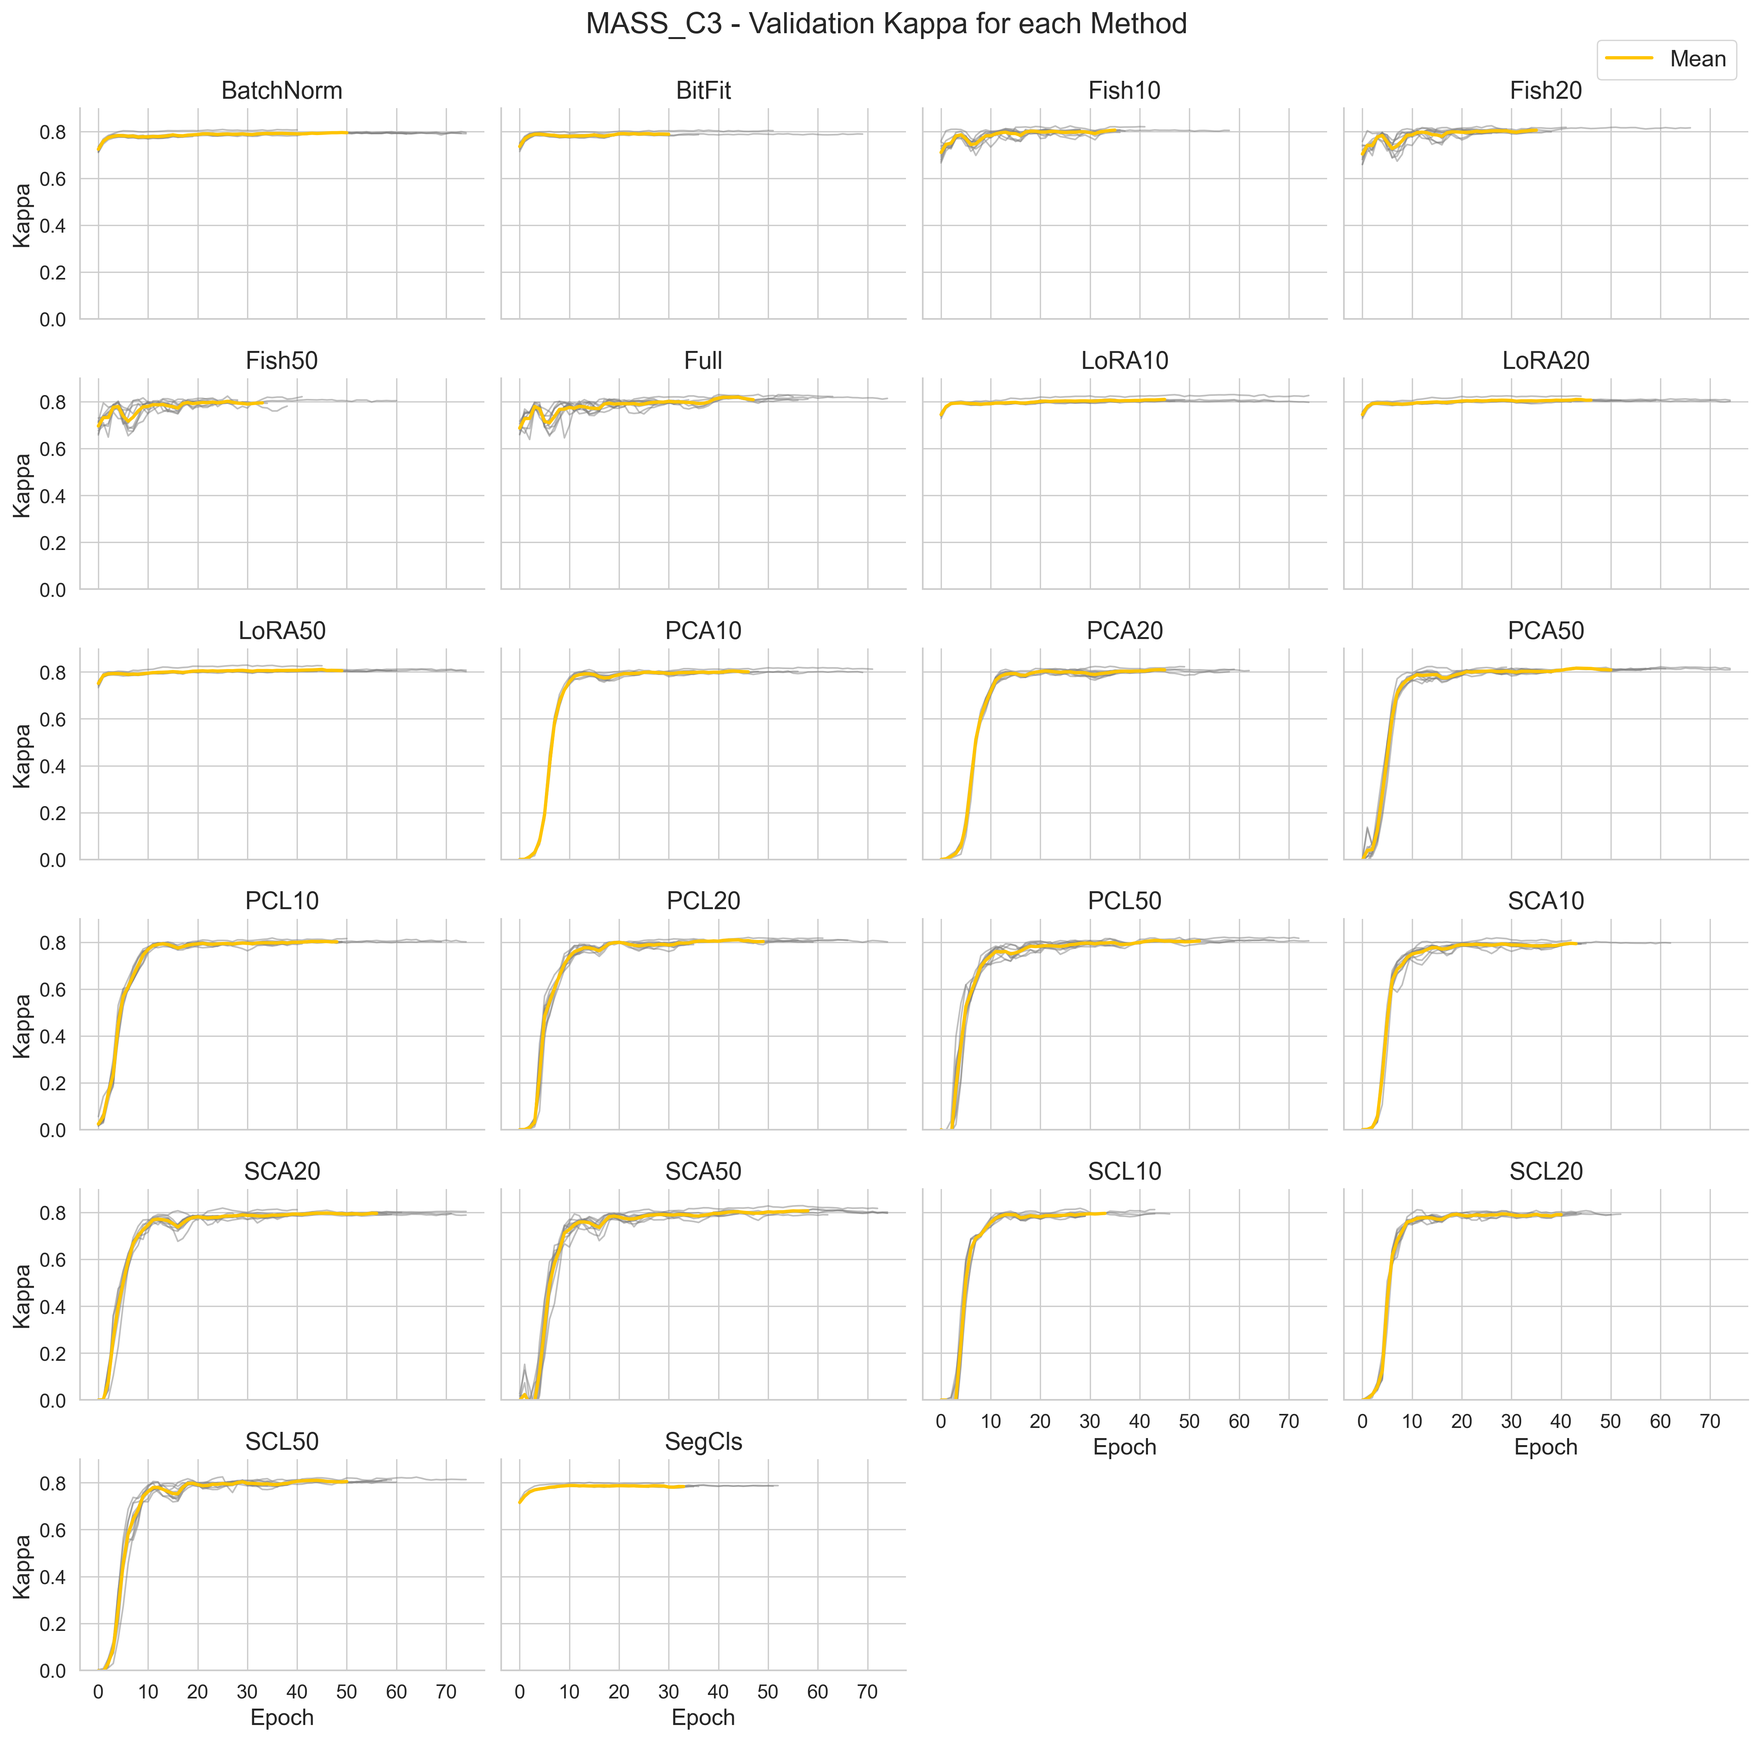
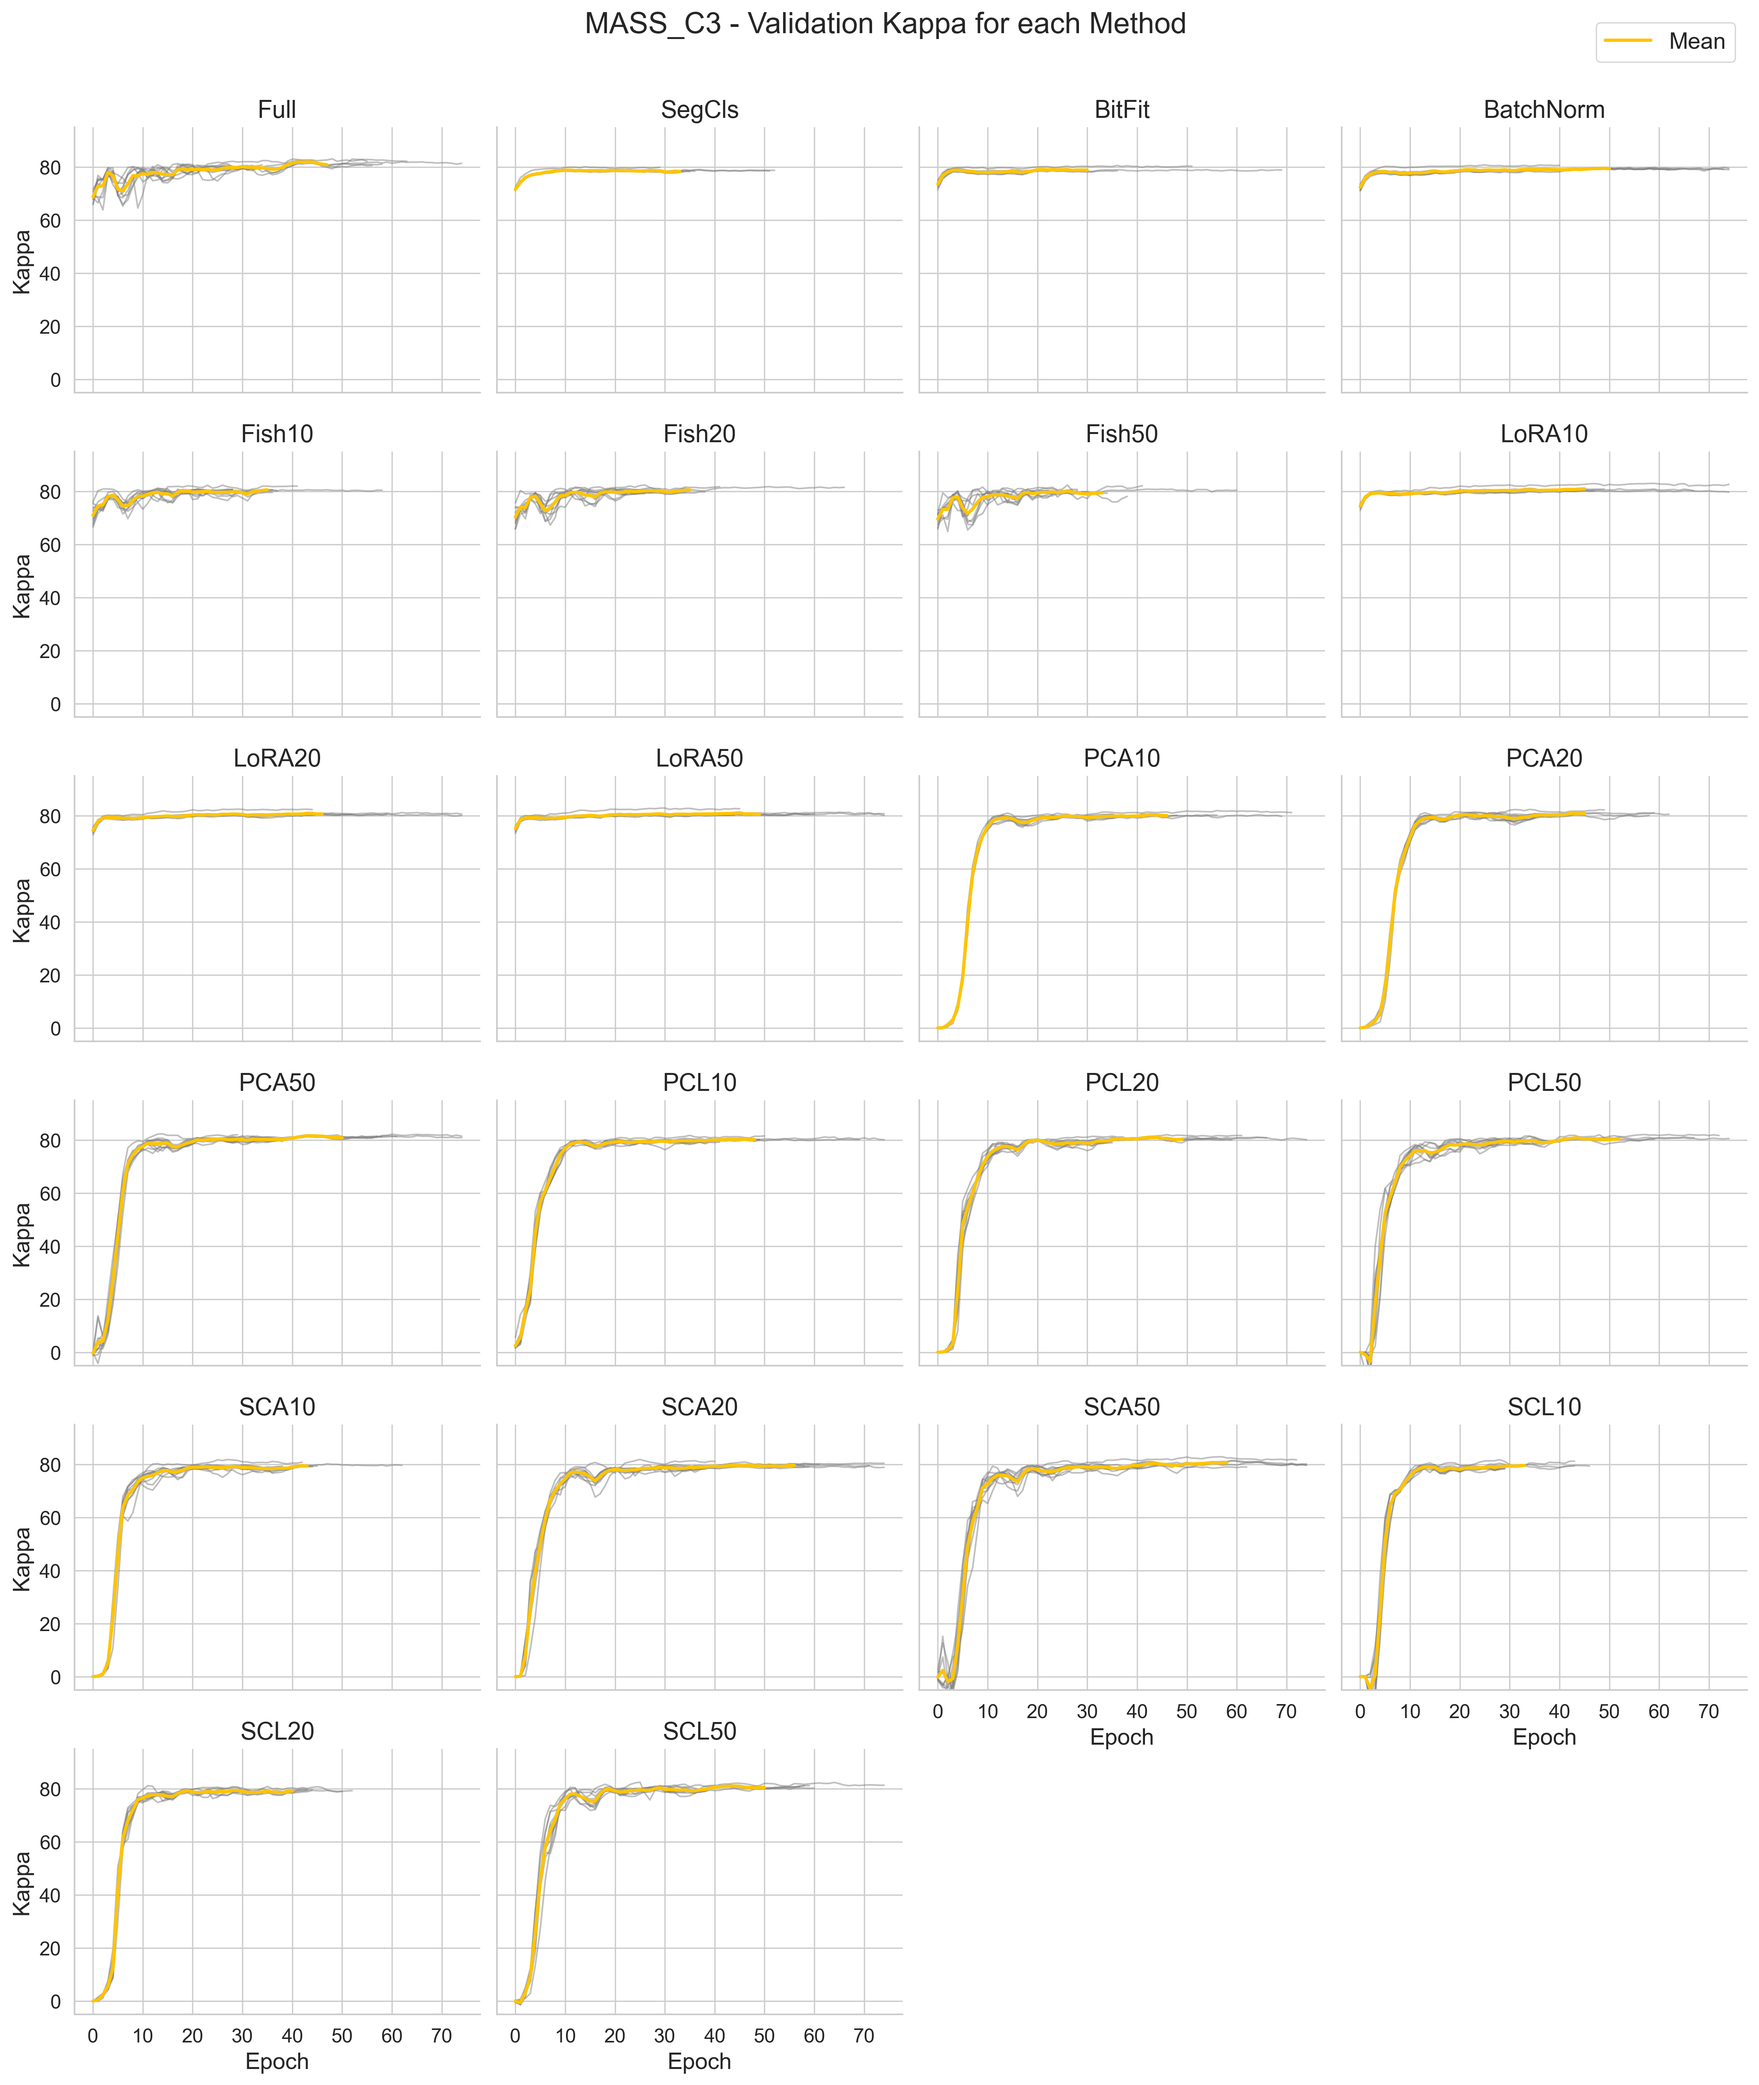
kappa scaled by 100

diff --git a/src/plot/val_kappa.py b/src/plot/val_kappa.py
@@ -15,7 +15,7 @@ from src.utils.neptune_api.method_data import (
 def plot_validation_kappa(cols: int = 4, show: bool = False) -> None:
     df = _get_validation_kappa_data()
 
-    for _, grp_df in df.group_by("dataset"):
+    for _, grp_df in df.group_by("dataset", maintain_order=True):
         _plot_validation_kappa(grp_df, cols=cols, show=show)
 
 
@@ -31,8 +31,8 @@ def _get_validation_kappa_data() -> pl.DataFrame:
         val = val.drop("accuracy", "loss", "f1")
         dfs.append(val)
 
-    df = pl.concat(dfs, how="vertical")
-
+    df: pl.DataFrame = pl.concat(dfs, how="vertical")
+    df = df.with_columns(pl.col("kappa") * 100)
     return sort_dataframe_by_method_order(df)
 
 
@@ -41,16 +41,18 @@ def _plot_validation_kappa(data: pl.DataFrame, cols: int, show: bool) -> None:
     color = HIGHLIGHT_COLOR[dataset.lower()]
 
     epoch_df = (
-        data.group_by("epoch", "method", "fold")
+        data.group_by("epoch", "method", "fold", maintain_order=True)
         .mean()
         .drop("step", "record")
-        .sort("method")
+        # .sort("method")
     )
-    fold_avg = epoch_df.group_by("epoch", "method").agg(pl.mean("kappa"))
+    fold_avg = epoch_df.group_by("epoch", "method", maintain_order=True).agg(
+        pl.mean("kappa")
+    )
     max_epoch_mean = (
-        epoch_df.group_by("method", "fold")
+        epoch_df.group_by("method", "fold", maintain_order=True)
         .agg(pl.col("epoch").max())
-        .group_by("method")
+        .group_by("method", maintain_order=True)
         .agg(pl.col("epoch").mean().alias("max_epoch_mean"))
     )
 
@@ -62,8 +64,8 @@ def _plot_validation_kappa(data: pl.DataFrame, cols: int, show: bool) -> None:
         col_wrap=cols,
         sharey=True,
         sharex=True,
-        height=2.5,
-        aspect=1.5,
+        height=3,
+        aspect=1.25,
     )
     g.set_titles(template="{col_name}", size=15)
 
@@ -97,12 +99,12 @@ def _plot_validation_kappa(data: pl.DataFrame, cols: int, show: bool) -> None:
         if i == 0:
             ax.legend(
                 loc="upper right",
-                bbox_to_anchor=(0.99, 0.97),
+                bbox_to_anchor=(0.99, 0.98),
                 bbox_transform=g.figure.transFigure,
                 prop={"size": 14},
             )
 
-        ax.set_ylim((0.0, 0.9))
+        ax.set_ylim((-5, 95))
 
         adjust_axis_font(ax.yaxis, size=12)
         adjust_axis_font(ax.xaxis, size=12)
